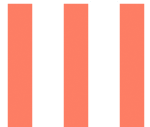
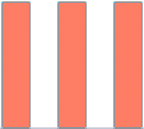
adding in a new rods.png adding earthquake, gauge, rod, and valve js files

Changed region(s): [[0.0, 0.0, 1.0, 1.0]]

diff --git a/http/js/dojo/scram/valve.js b/http/js/dojo/scram/valve.js
@@ -1,0 +1,45 @@
+/**
+ * @author DThomas
+ */
+define(["dojo/_base/lang", "dojo/_base/declare", "dojox/socket"], function(lang, Declare, Socket) {
+	return Declare("scram.socket", null, {
+		///
+		///Valve class
+		///
+		
+		valve: null,
+		//current state of valve (open, off)
+		valveState: null,
+		_socket: null,
+		
+		//constructor takes in args
+		constructor : function(args) {
+			
+			//don't need dis crap here
+			//this.valve = new Socket("ws://127.0.0.1:8081");
+			//this.valve.on("valveOpen", lang.hitch(this, this._valveOpen));
+			//this.valve.on("valveClose", lang.hitch(this, this._valveClose));
+			
+			//This will be used in collection
+			//this._socket = (args.socket);
+		},
+		
+		_socketMessage: function(event){
+			//Listenurr
+			this.valveState = msg;
+		},
+		
+		valveOpen: function(event) {
+			console.log("Valve Opened");
+			//this.valve.send("Open");
+			//Will update valve state to open
+		},
+		
+		valveClose: function(event) {
+			console.log("Valve Closed");
+			//this.valve.send("Close");
+			//will update valve state to closed
+		}
+		
+	});
+});

diff --git a/http/js/dojo/scram/gauge.js b/http/js/dojo/scram/gauge.js
@@ -1,0 +1,39 @@
+define(["dojo/_base/lang", "dojo/_base/declare", "dojox/socket"], function(lang, Declare, Socket) {
+	return Declare("scram.socket", null, {
+		///
+		/// This is the class for the gauges
+		///
+		
+		gauge : null,
+		state : null,
+		_socket : null,
+		
+		
+		constructor : function(args) {
+			
+		},
+	
+		
+		_socketMessage : function(event){
+			//Add a listener
+			this.state = msg;
+		},
+		
+		
+		gaugeUp : function(event){	
+			console.log("Gauge Increase");
+			//Will increase gauge value by 1
+			//Will update state
+		},
+		
+		
+		gaugeDown : function(event){
+			console.log("Gauge Decrease");
+			//Will decrease gauge value by 1
+			//Will update state
+	
+		}
+		
+		
+	});
+});

diff --git a/http/js/dojo/scram/earthquake.js b/http/js/dojo/scram/earthquake.js
@@ -1,0 +1,39 @@
+define(["dojo/_base/lang", "dojo/_base/declare", "dojox/socket"], function(lang, Declare, Socket) {
+	return Declare("scram.socket", null, {
+		///
+		/// This is the class for earthquakes
+		///
+		
+		//Used to store info about the damage caused (to report back to server)
+		_damage : null,
+		
+		
+		constructor : function(args) {
+			
+		},
+	
+		
+		beginEarthquake : function(event){
+			
+			//Start the earthquake
+			
+		},
+		
+		
+		endEarthquake : function(event){
+			
+			//End the earthquake
+			//Assess or cause damage here
+			
+		},
+		
+		
+		reportDamage : function(event){
+			
+			//Send information back to the
+			//server about what happened
+			
+		}
+		
+	});
+});

diff --git a/http/js/dojo/scram/rod.js b/http/js/dojo/scram/rod.js
@@ -1,0 +1,39 @@
+define(["dojo/_base/lang", "dojo/_base/declare", "dojox/socket"], function(lang, Declare, Socket) {
+	return Declare("scram.socket", null, {
+		///
+		/// This is the class for the rods
+		///
+		
+		rods : null,
+		state : null,
+		_socket : null,
+		
+		
+		constructor : function(args) {
+			
+		},
+	
+		
+		_socketMessage : function(event){
+			//Add a listener
+			this.state = msg;
+		},
+		
+		
+		rodsUp : function(event){	
+			console.log("Rods Up");
+			//Will increase rods value by 1
+			//Will update state
+		},
+		
+		
+		rodsDown : function(event){
+			console.log("Rods Down");
+			//Will decrease rods value by 1
+			//Will update state
+	
+		}
+		
+		
+	});
+});
